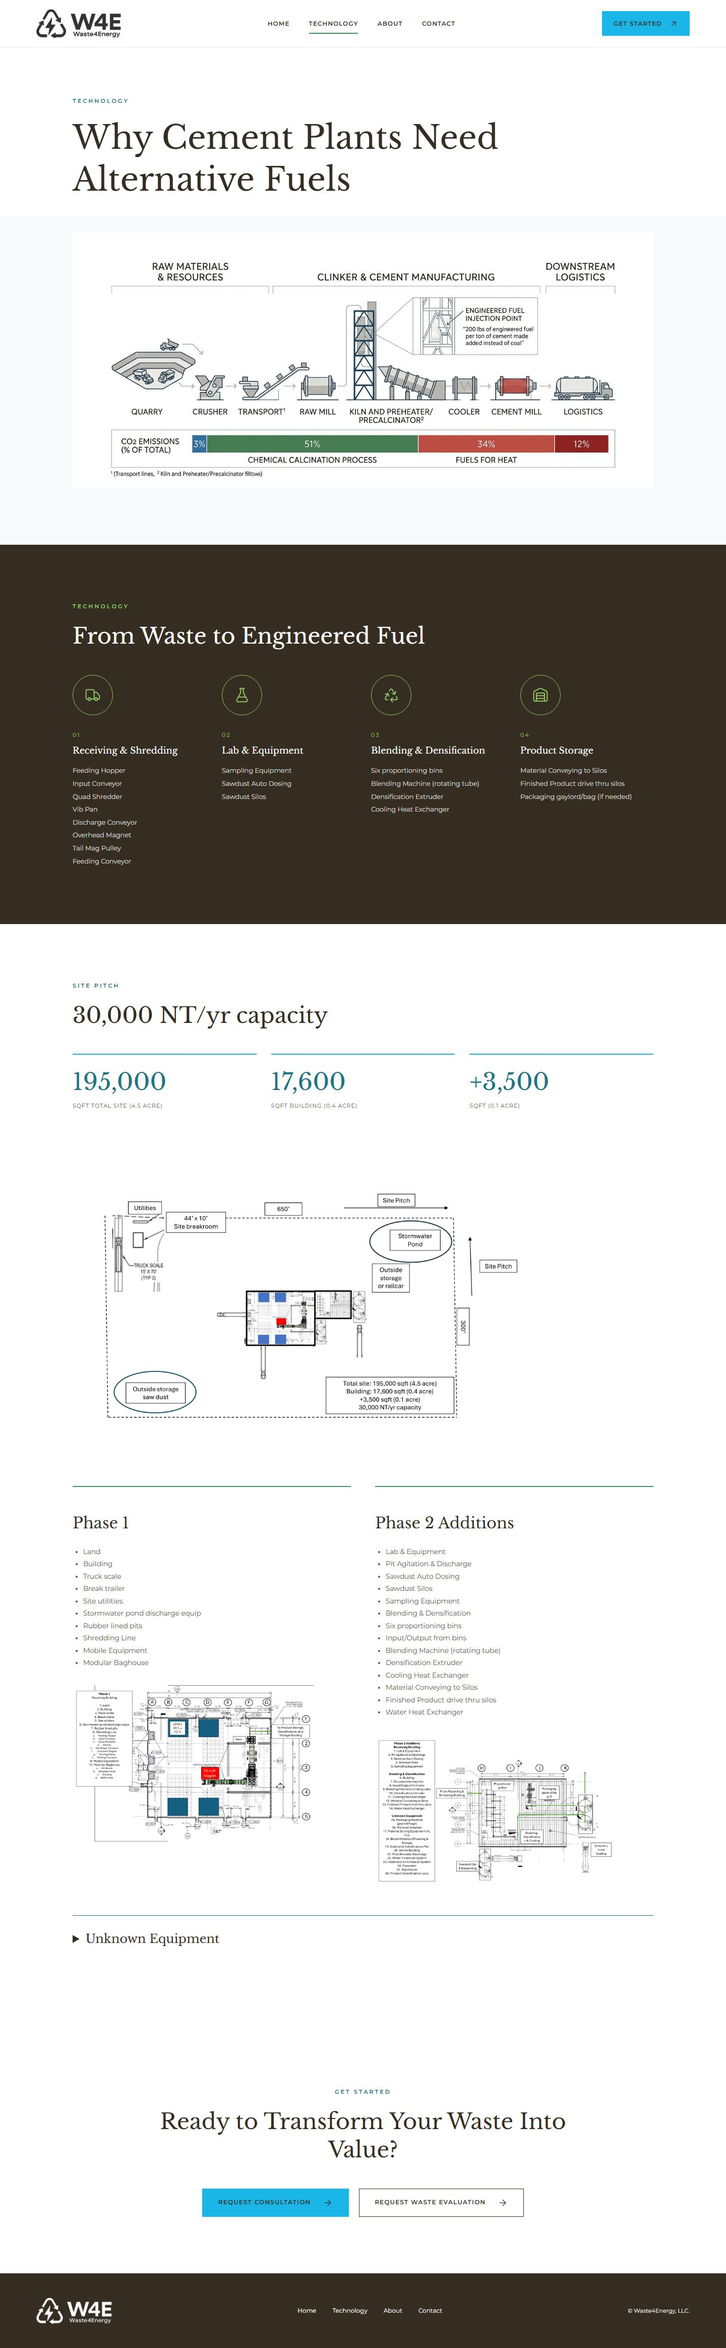
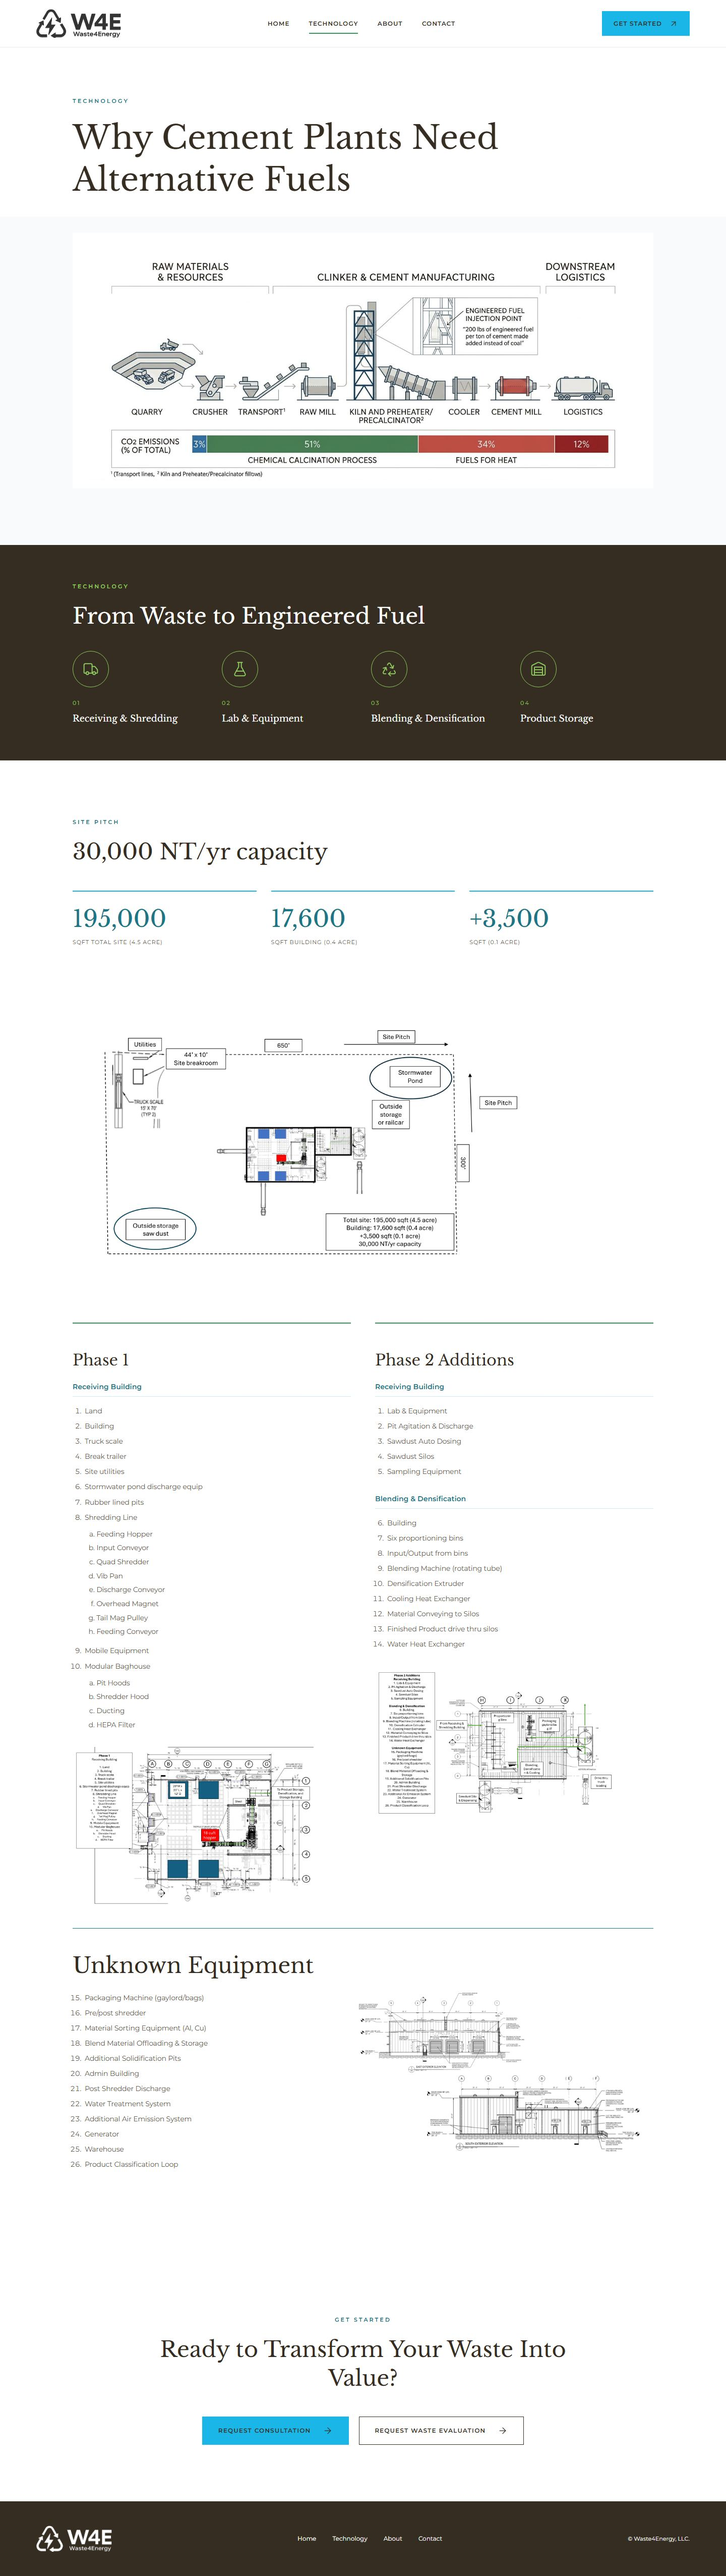
Match phase equipment notes to PDF hierarchy and restore visible unknown equipment

diff --git a/Waste4Energy_Review/styles.css b/Waste4Energy_Review/styles.css
@@ -66,3 +66,18 @@
 .solution-image{position:relative}
 .solution-image.parallax-active img{position:absolute;left:0;top:-200px;height:calc(100% + 400px);will-change:transform}
 @media(max-width:760px){.solution-image.parallax-active img{top:-100px;height:calc(100% + 200px)}}
+
+.process{padding-block:4.5rem}
+.process .section-head{margin-bottom:2.5rem}
+.process .section-head h2{margin-bottom:0}
+.process .step-icon{width:72px;height:72px;margin-bottom:1rem}
+.process-step h3{margin-bottom:0}
+.plans{align-items:start}
+.phase-group{margin-block:1.5rem 2rem}
+.phase-group h3{font-family:var(--body-font);font-size:.88rem;font-weight:600;color:var(--teal);margin-bottom:1rem;padding-bottom:.6rem;border-bottom:1px solid var(--pale)}
+.equipment-list>li{padding-left:.2rem;margin-bottom:.35rem}
+.equipment-sublist{padding-left:1.45rem;margin-block:.55rem .85rem;list-style-type:lower-alpha}
+.equipment-sublist li{margin-bottom:.2rem}
+.unknown-equipment>.section-head{margin-bottom:1.5rem}
+.unknown-equipment-grid{display:grid;grid-template-columns:1fr 1.2fr;gap:3rem;align-items:start}
+@media(max-width:760px){.process{padding-block:3rem}.unknown-equipment-grid{grid-template-columns:1fr;gap:1.5rem}}

diff --git a/Waste4Energy_Review/admin/admin.js b/Waste4Energy_Review/admin/admin.js
@@ -23,6 +23,7 @@ function fields(value,path,parent){
     parent.append(wrap);return;
   }
   for(const [key,v] of Object.entries(value)){
+    if(typeof v==='number')continue;
     if(typeof v==='string')fields(v,[...path,key],parent);
     else{const group=document.createElement('fieldset');const legend=document.createElement('legend');legend.textContent=Array.isArray(value)?`${Number(key)+1}${v.name?' · '+v.name:v.title?' · '+v.title:''}`:label(key);group.append(legend);fields(v,[...path,key],group);parent.append(group);}
   }

diff --git a/Waste4Energy_Review/CONTENT-MAP.md b/Waste4Energy_Review/CONTENT-MAP.md
@@ -11,8 +11,8 @@ Source: `Waste4Energy Presentation.pdf` (11 physical pages), supplied locally. T
 | 5: targeted waste streams | Home photo grid | The eight source categories and captions are retained. At the client's request, the presentation's stock photographs are replaced with eight newly generated industry photographs using different compositions and no reference images. Generation prompts are recorded in content/generated-image-prompts.json. The old waste-stream photo assets are removed from this version. |
 | 6: alternative fuels | Technology cement-process illustration | 200 lbs of engineered fuel per ton of cement added instead of coal remains in the supplied diagram. At the client's request, the duplicate introductory paragraph and extra heading block above the image are removed and spacing is reduced. Not reworded as a guaranteed emissions reduction. Uses the exact supplied Process_Illustration.jpeg, with an accessible text description and full-size link. |
 | 7: site pitch | Technology site metrics and site plan | 30,000 NT/yr, 195,000 sqft, 17,600 sqft and +3,500 sqft retained. Full source plan preserves ancillary labels and dimensions. |
-| 8: Phase 1 receiving | Technology receiving / Phase 1 | Equipment list and full source schematic retained, including nested shredder and baghouse component labels on the schematic. |
-| 9: Phase 2 | Technology blending / lab / storage; Phase 2 and Unknown Equipment | Phase 2 remains labeled as an addition. Unknown equipment remains explicitly labeled, not represented as installed capability. Full original source schematic retained. |
+| 8: Phase 1 receiving | Technology Phase 1 notes | Receiving Building subheading, items 1–10, Shredding Line subitems a–h, and Modular Baghouse subitems a–d match the slide. Original schematic retained. Equipment bullets are removed from the four dark overview cards. |
+| 9: Phase 2 | Technology Phase 2 and Unknown Equipment notes | Phase 2 retains Receiving Building (items 1–5) and Blending & Densification (items 6–14), including Building at item 6. Unknown Equipment is a separate, always-visible section with items 15–26. Original schematics retained. |
 | 10: equipment image | Technology Unknown Equipment expandable panel | Source illustration retained with its labels. |
 | 11: Areas of Focus | About locations map | Original geography and labels retained. At the client's request, the four colored symbols are replaced with the dark recycling/lightning symbol, the legacy corner wordmark and embedded title are removed, and empty slide margins are trimmed. Western US is not renamed Arizona; map visually highlights Nevada. Source map's 500K and 100K labels remain on the map, not promoted as verified operating capacity. |
 | Supplied W4E_Logo.png | Header, hero, footer | Exact supplied logo, unchanged. |
